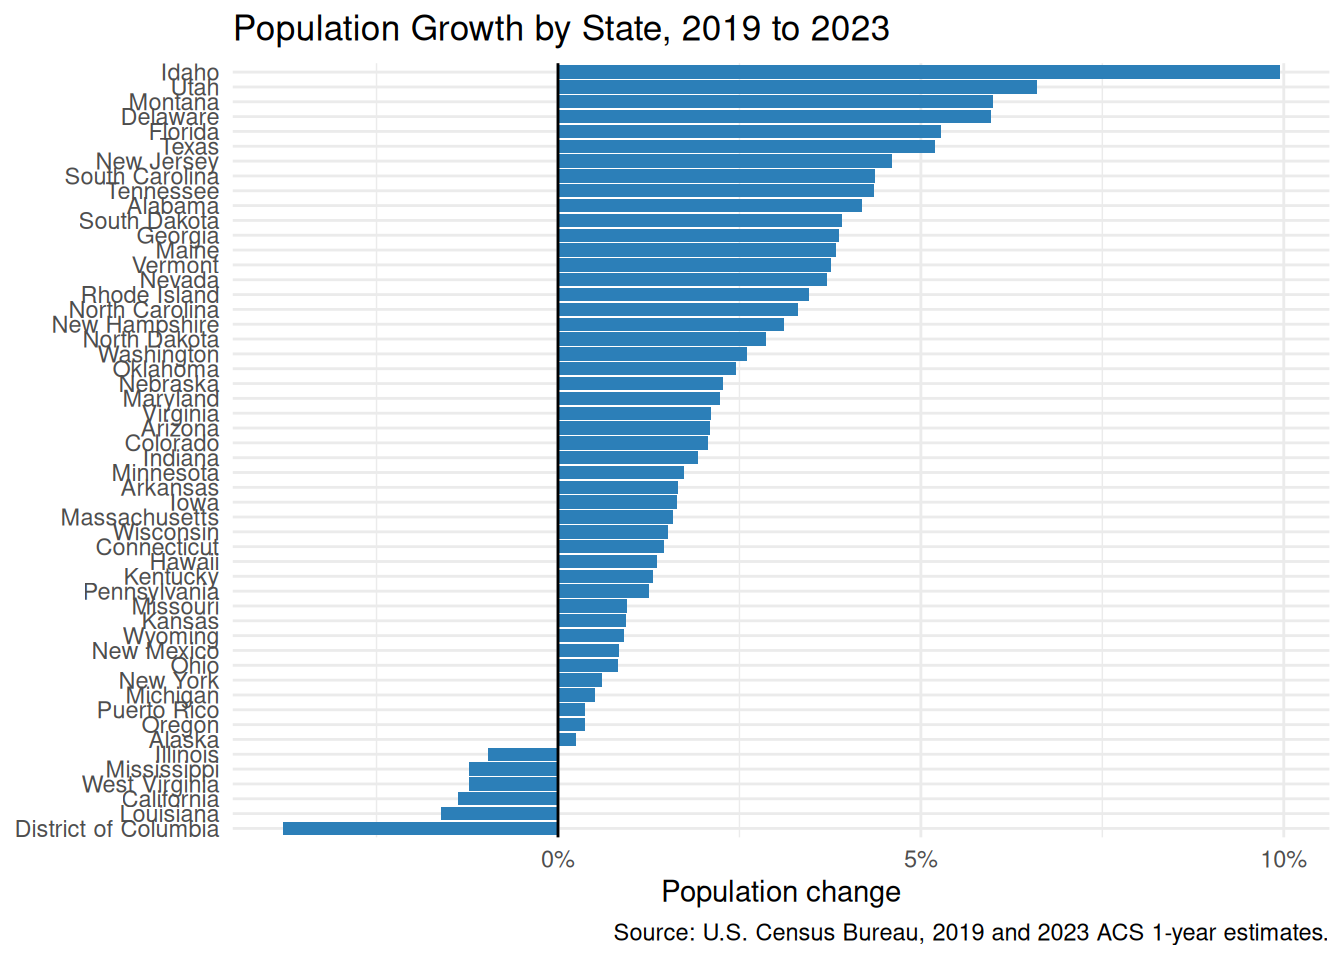
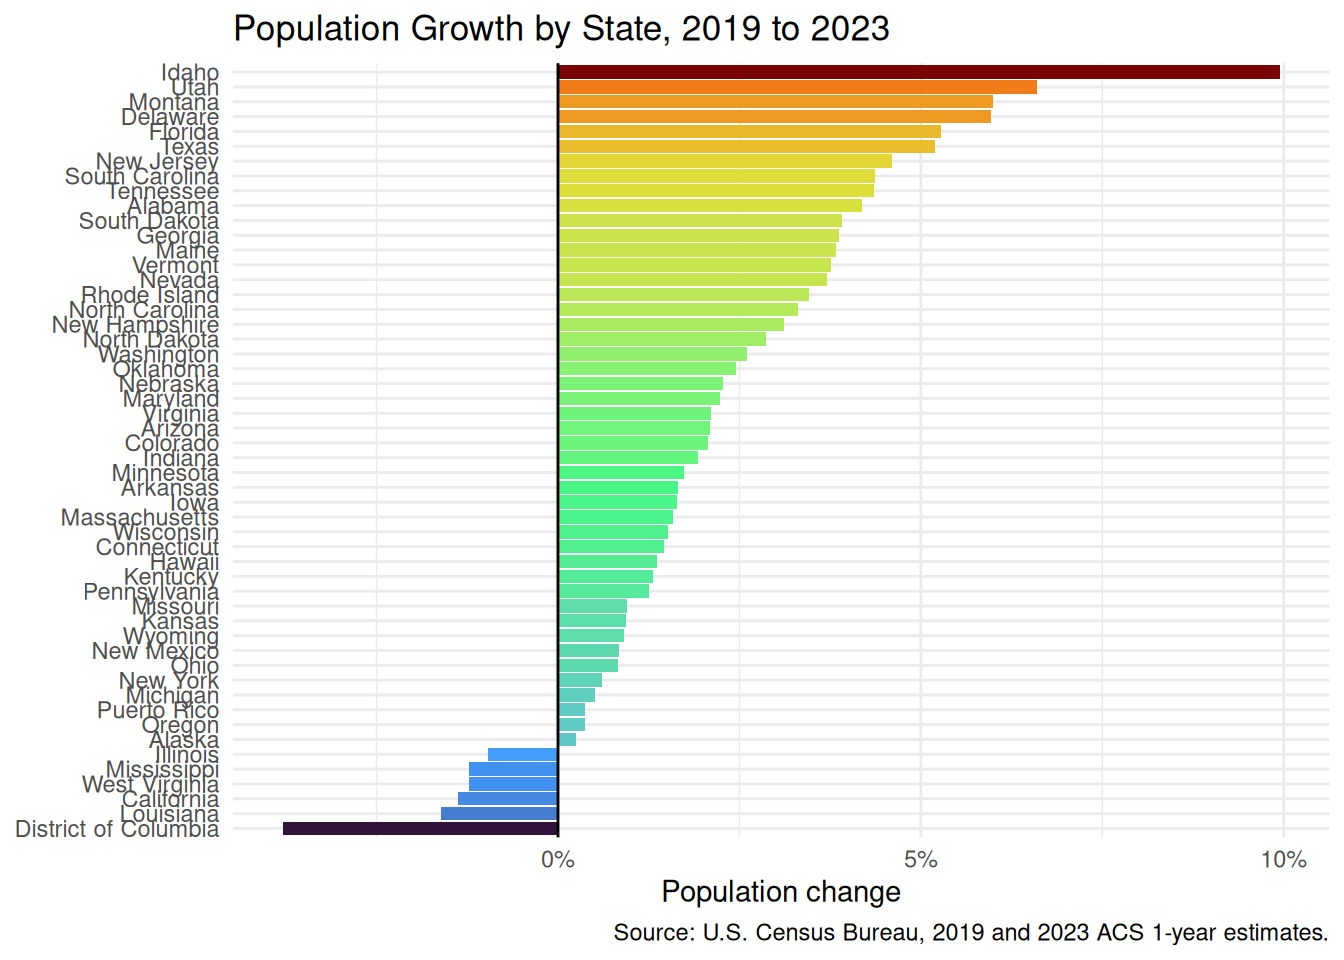
Built site for gh-pages

Changed region(s): [[0.1875, 0.0625, 0.9688, 0.875]]

diff --git a/analysis.html b/analysis.html
@@ -126,6 +126,7 @@ ul.task-list li input[type="checkbox"] {
   <li><a href="#population-growth-by-state" id="toc-population-growth-by-state" class="nav-link active" data-scroll-target="#population-growth-by-state">Population growth by state</a></li>
   <li><a href="#median-household-income-by-state" id="toc-median-household-income-by-state" class="nav-link" data-scroll-target="#median-household-income-by-state">Median household income by state</a></li>
   <li><a href="#population-growth-and-median-household-income" id="toc-population-growth-and-median-household-income" class="nav-link" data-scroll-target="#population-growth-and-median-household-income">Population growth and median household income</a></li>
+  <li><a href="#fastest-growing-u.s.-counties" id="toc-fastest-growing-u.s.-counties" class="nav-link" data-scroll-target="#fastest-growing-u.s.-counties">Fastest-growing U.S. counties</a></li>
   </ul>
 </nav>
     </div>
@@ -163,6 +164,11 @@ ul.task-list li input[type="checkbox"] {
 </div>
 </div>
 </div>
+<p><strong>Key Takeaways:</strong></p>
+<ul>
+<li><strong>Mountain West &amp; South boom:</strong> <strong>Idaho (+9.9%)</strong>, <strong>Utah (+6.6%)</strong>, <strong>Montana (+6.0%)</strong>, <strong>Delaware (+6.0%)</strong>, and <strong>Florida (+5.3%)</strong> grew the fastest between 2019 and 2023.</li>
+<li><strong>Population declines:</strong> <strong>Washington, D.C. (-3.8%)</strong>, <strong>Louisiana (-1.6%)</strong>, and <strong>California (-1.4%)</strong> saw the largest percentage drops over the same period.</li>
+</ul>
 </section>
 <section id="median-household-income-by-state" class="level2">
 <h2 class="anchored" data-anchor-id="median-household-income-by-state">Median household income by state</h2>
@@ -176,6 +182,11 @@ ul.task-list li input[type="checkbox"] {
 </div>
 </div>
 </div>
+<p><strong>Key Takeaways:</strong></p>
+<ul>
+<li><strong>Top earners:</strong> <strong>Washington, D.C. ($108,210)</strong>, <strong>Massachusetts ($99,858)</strong>, <strong>New Jersey ($99,781)</strong>, and <strong>Maryland ($98,678)</strong> lead in median household income.</li>
+<li><strong>Wide gap:</strong> There is nearly a <strong>$55,000 gap</strong> between the highest-income state (Massachusetts) and the lowest-income state (<strong>Mississippi at $54,203</strong>).</li>
+</ul>
 </section>
 <section id="population-growth-and-median-household-income" class="level2">
 <h2 class="anchored" data-anchor-id="population-growth-and-median-household-income">Population growth and median household income</h2>
@@ -189,6 +200,30 @@ ul.task-list li input[type="checkbox"] {
 </div>
 </div>
 </div>
+<p><strong>Key Takeaways:</strong></p>
+<ul>
+<li><strong>Positive but modest relationship:</strong> The upward-sloping dashed trend line shows that states with higher median household incomes tend to have slightly higher population growth overall.</li>
+<li><strong>Cost of living matters:</strong> Some of the fastest-growing states (like <strong>Idaho</strong>, <strong>Montana</strong>, and <strong>Florida</strong>) have middle-tier incomes, suggesting that lower housing costs and remote-work migration played a major role alongside wages.</li>
+</ul>
+</section>
+<section id="fastest-growing-u.s.-counties" class="level2">
+<h2 class="anchored" data-anchor-id="fastest-growing-u.s.-counties">Fastest-growing U.S. counties</h2>
+<p>This chart downloads county-level population estimates from the 2019 and 2023 5-year ACS and highlights the 15 fastest-growing counties (among counties with at least 10,000 residents).</p>
+<div class="cell">
+<div class="cell-output-display">
+<div>
+<figure class="figure">
+<p><img src="analysis_files/figure-html/unnamed-chunk-8-1.png" class="img-fluid figure-img" width="672"></p>
+</figure>
+</div>
+</div>
+</div>
+<p><strong>County Growth Facts:</strong></p>
+<ul>
+<li><strong>#1 Fastest-Growing County:</strong> <strong>Madison County, Idaho</strong> surged by <strong>37.0%</strong> (growing from 39,100 to 53,578 residents).</li>
+<li><strong>Texas Suburban Boom:</strong> Five of the top 10 fastest-growing counties in the nation are in Texas—led by <strong>Kaufman County (+29.8%)</strong>, <strong>Comal County (+23.2%)</strong>, <strong>Bastrop County (+21.1%)</strong>, <strong>Rockwall County (+20.3%)</strong>, and <strong>Hays County (+20.2%)</strong>.</li>
+<li><strong>Most New Residents Overall:</strong> <strong>Maricopa County, Arizona</strong> (Phoenix area) added the most people in total (<strong>+163,177 residents</strong>), followed by <strong>Collin County, Texas (+142,624)</strong> and <strong>Harris County, Texas (+111,949)</strong>.</li>
+</ul>
 
 
 </section>

diff --git a/index.html b/index.html
@@ -126,6 +126,7 @@ ul.task-list li input[type="checkbox"] {
   <li><a href="#exploring-how-population-and-prosperity-change-together" id="toc-exploring-how-population-and-prosperity-change-together" class="nav-link active" data-scroll-target="#exploring-how-population-and-prosperity-change-together">Exploring how population and prosperity change together</a>
   <ul class="collapse">
   <li><a href="#questions-we-will-explore" id="toc-questions-we-will-explore" class="nav-link" data-scroll-target="#questions-we-will-explore">Questions we will explore</a></li>
+  <li><a href="#fast-facts-from-the-data-20192023" id="toc-fast-facts-from-the-data-20192023" class="nav-link" data-scroll-target="#fast-facts-from-the-data-20192023">Fast Facts from the Data (2019–2023)</a></li>
   </ul></li>
   </ul>
 </nav>
@@ -167,6 +168,15 @@ ul.task-list li input[type="checkbox"] {
 <li>Which states have grown fastest?</li>
 <li>How do states differ in median household income?</li>
 <li>How might population change be related to economic opportunity?</li>
+</ul>
+</section>
+<section id="fast-facts-from-the-data-20192023" class="level3">
+<h3 class="anchored" data-anchor-id="fast-facts-from-the-data-20192023">Fast Facts from the Data (2019–2023)</h3>
+<ul>
+<li><strong>Fastest-Growing State:</strong> <strong>Idaho</strong> led the nation with nearly <strong>10% population growth</strong> (followed by Utah at 6.6% and Montana at 6.0%).</li>
+<li><strong>Fastest-Growing Counties:</strong> <strong>Madison County, Idaho (+37.0%)</strong> and <strong>Kaufman County, Texas (+29.8%)</strong> topped all U.S. counties in percentage growth, while <strong>Maricopa County, Arizona</strong> added the most new residents (<strong>+163,177</strong>).</li>
+<li><strong>Highest Median Income:</strong> <strong>Washington, D.C.</strong> ($108,210), <strong>Massachusetts</strong> ($99,858), and <strong>New Jersey</strong> ($99,781) had the highest median household incomes in 2023.</li>
+<li><strong>Surprising Trend:</strong> Higher income doesn’t always mean faster growth—many fast-growing states in the Mountain West and South have moderate median incomes but lower costs of living.</li>
 </ul>
 <p>Visit the <strong>Analysis</strong> page to see charts based on American Community Survey data.</p>
 

diff --git a/styles.css b/styles.css
@@ -1,1 +1,29 @@
-/* css styles */
+/* Crazy vibrant website styles */
+body {
+  background: linear-gradient(135deg, #fff0f6 0%, #f3f0ff 50%, #e3fafc 100%);
+  color: #2b0938;
+}
+
+.navbar {
+  background: linear-gradient(90deg, #ff007f, #7928ca, #00d4ff, #00ff87) !important;
+  box-shadow: 0 4px 15px rgba(255, 0, 127, 0.35);
+}
+
+.navbar-brand, .navbar-nav .nav-link {
+  color: #ffffff !important;
+  font-weight: 700;
+  text-shadow: 1px 1px 3px rgba(0, 0, 0, 0.4);
+}
+
+h1, h2, h3 {
+  background: linear-gradient(90deg, #ff007f, #7928ca, #00b4d8);
+  -webkit-background-clip: text;
+  -webkit-text-fill-color: transparent;
+  font-weight: 800;
+}
+
+img {
+  border-radius: 12px;
+  border: 3px solid #ff007f;
+  box-shadow: 0 6px 20px rgba(121, 40, 202, 0.25);
+}
